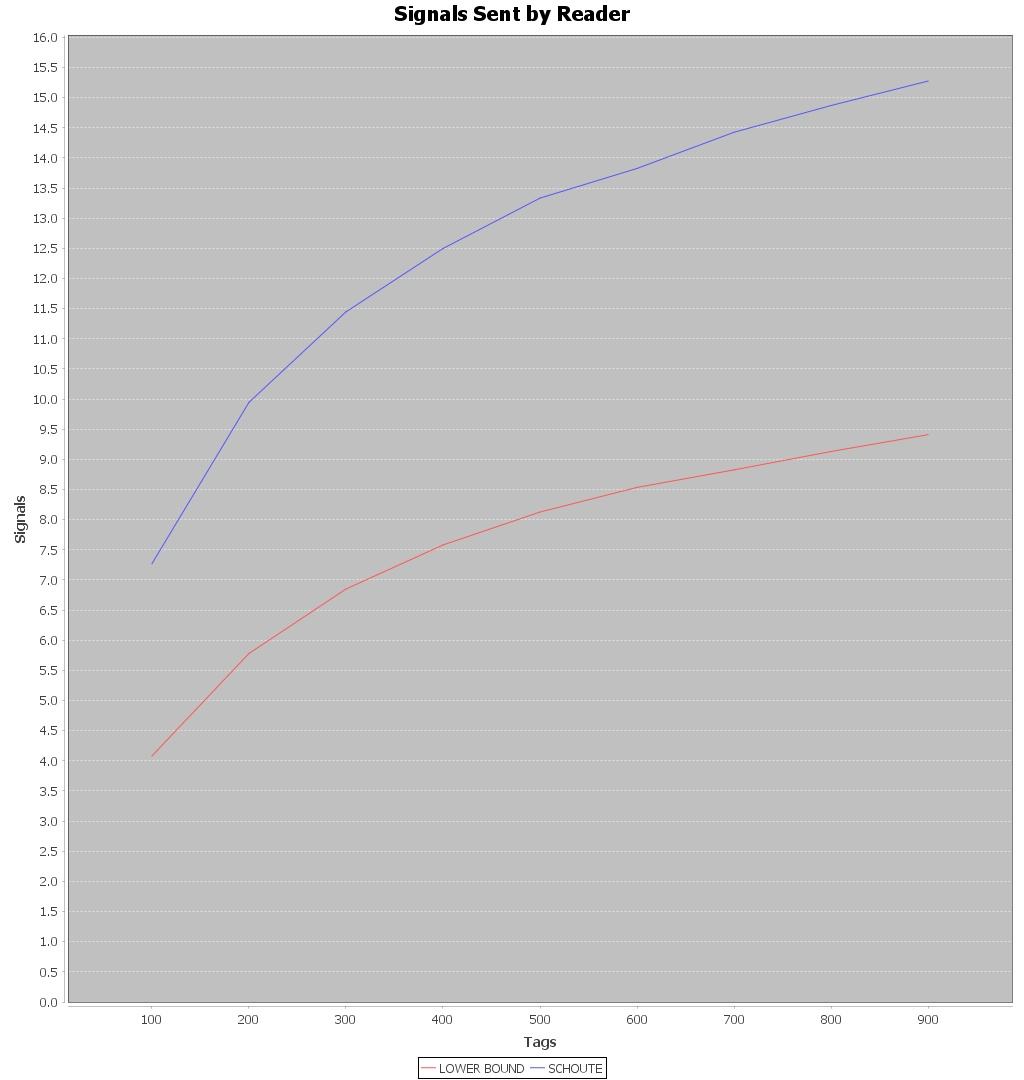
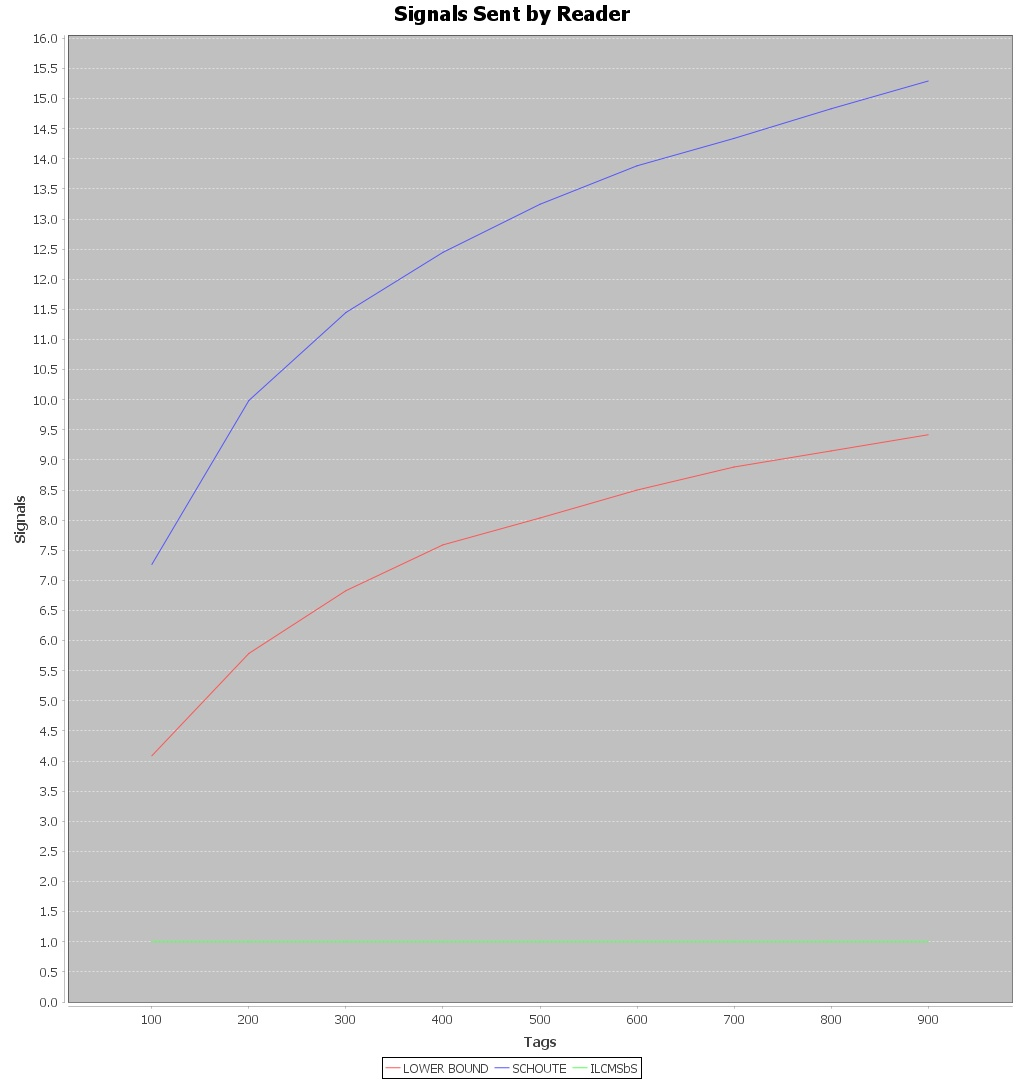
adicionado icbsdfa

diff --git a/src/front/Experiments.java b/src/front/Experiments.java
@@ -54,10 +54,12 @@ public class Experiments {
         Experiments experiments = new Experiments();
         LowerBound lowerBound = new LowerBound();
         Schoute schoute = new Schoute();
+        ILCMSbS artig = new ILCMSbS();
         GraphPrinter printer = new GraphPrinter();
 
         Vector SchouteVec = new Vector();
         Vector LBVec = new Vector();
+        Vector artiVec = new Vector();
         for(int i = 0; i<retry; i++)
         {
 	        Map<Integer, graphInfo> simulationSchoute = new TreeMap<Integer, graphInfo>();
@@ -68,17 +70,23 @@ public class Experiments {
 	        Map<Integer, graphInfo> simulationLB = new TreeMap<Integer, graphInfo>();
 	        simulationLB = experiments.test_tags(
 	                lowerBound, n_of_tags, increment_step, max_tags, frame_size, frame_pow2);
-	        
 	        LBVec.add(simulationLB);
+	        
+	        Map<Integer, graphInfo> simulationArti = new TreeMap<Integer, graphInfo>();
+	        simulationArti = experiments.test_tags(
+	                artig, n_of_tags, increment_step, max_tags, frame_size, frame_pow2);
+	        artiVec.add(simulationArti);
         }
         
         Map<Integer, graphInfo> simulationSchoute = averageValues(SchouteVec);
         Map<Integer, graphInfo> simulationLB = averageValues(LBVec);
+        Map<Integer, graphInfo> simulationArti = averageValues(artiVec);
         
         Map<Estimator, Map<Integer, graphInfo>> graphMap = new HashMap();
         
         graphMap.put(schoute, simulationSchoute);
         graphMap.put(lowerBound, simulationLB);
+        graphMap.put(artig, simulationArti);
         
         
         printer.printChart(graphMap);

diff --git a/src/back/ILCMSbS.java b/src/back/ILCMSbS.java
@@ -100,7 +100,7 @@ public class ILCMSbS implements Estimator {
 	@Override
 	public String getName() {
 		// TODO Auto-generated method stub
-		return null;
+		return "ILCMSbS";
 	}
     
 }
